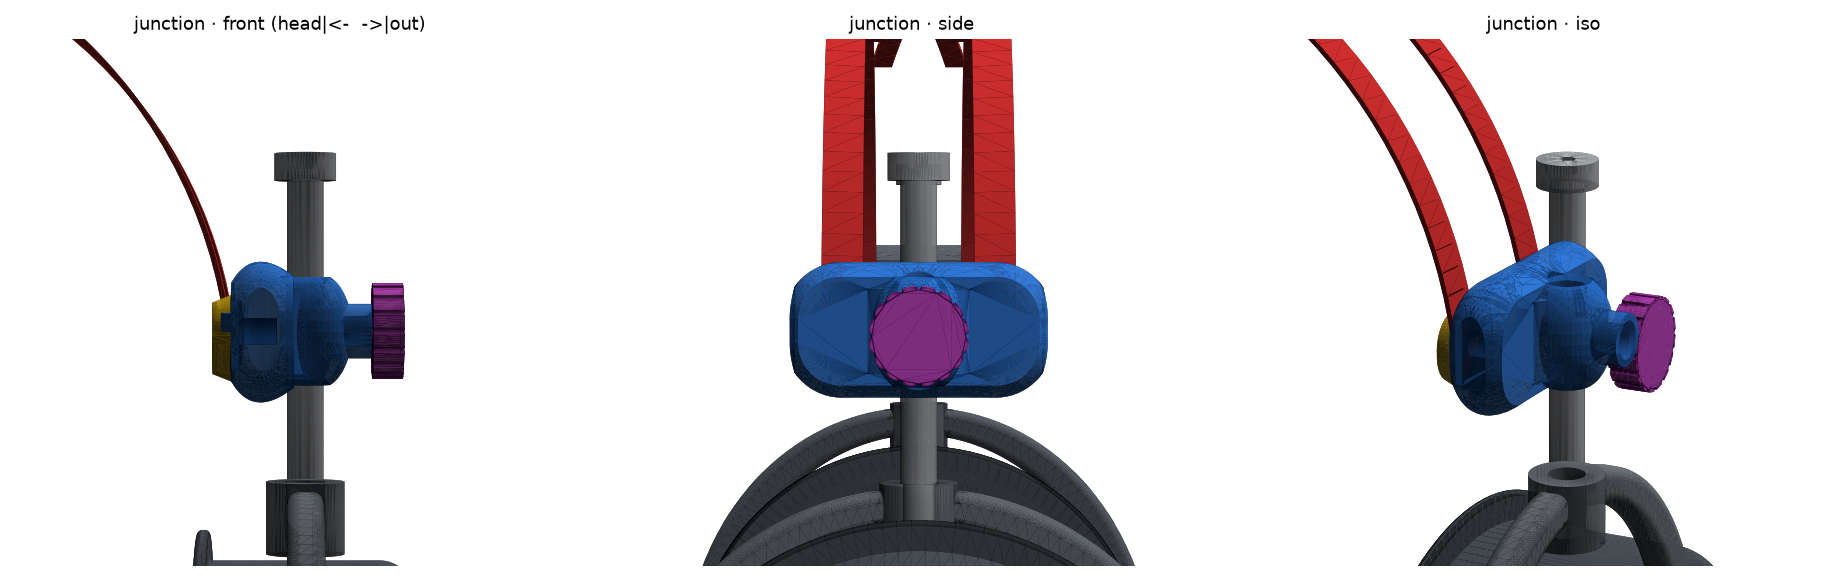
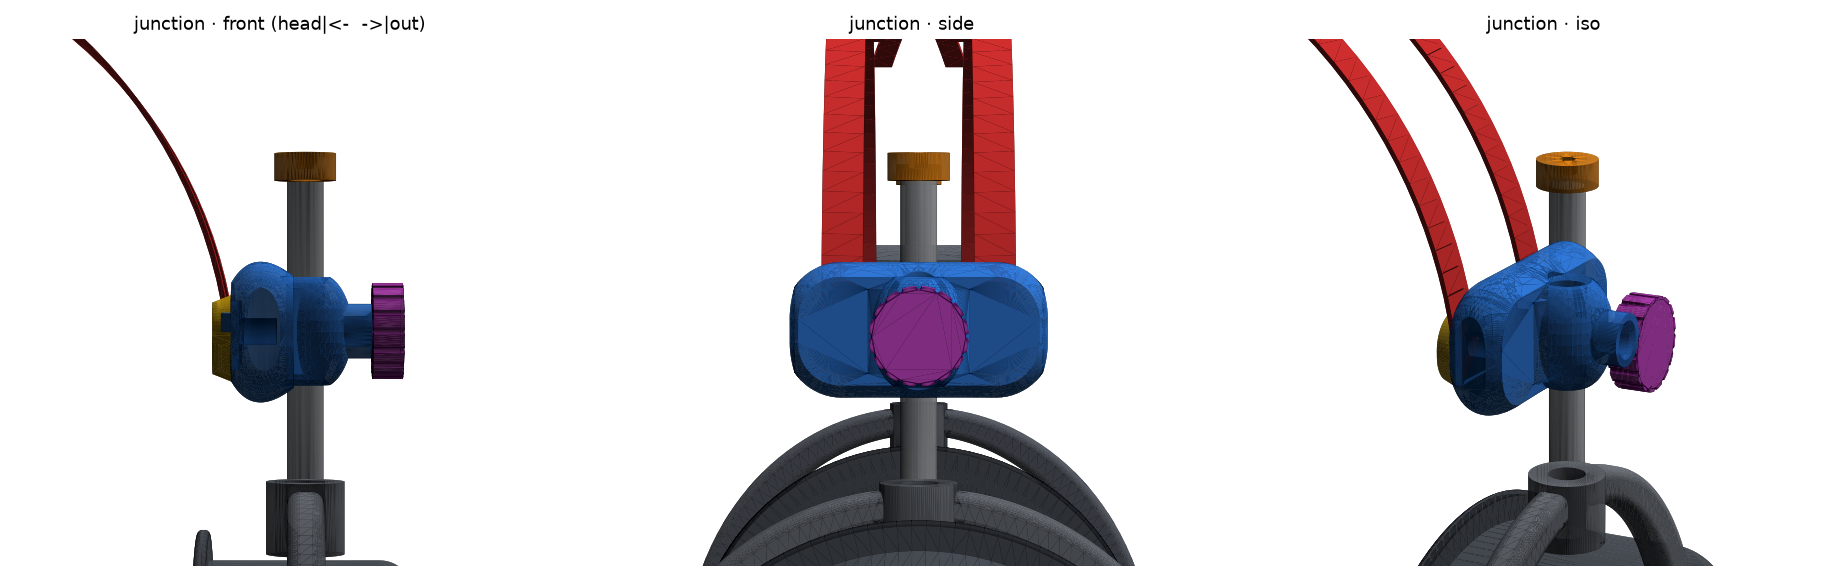
Render: highlight the shoulder-screw head (top stop) so it reads in the assembly views
The ISO 7379 head is a low socket-cap the same steel colour as the shaft, so it blended in. render_asm now splits the head out (by z) and colours it distinctly — render-aid only, the GLB/product keeps it as one steel screw.

diff --git a/render_asm.py b/render_asm.py
@@ -5,6 +5,7 @@ import matplotlib.pyplot as plt
 from mpl_toolkits.mplot3d.art3d import Poly3DCollection
 import cadquery as cq
 from assembly import make_assembly
+from params import P
 
 asm = make_assembly()
 LIGHT = np.array([0.3, 0.4, 0.85]); LIGHT = LIGHT / np.linalg.norm(LIGHT)
@@ -24,6 +25,22 @@ for child in asm.children:
     T = np.array(idx)
     rgb = np.array(child.color.toTuple()[:3]) if child.color is not None else np.array([0.6, 0.6, 0.6])
     parts.append((child.name, V[T], rgb))
+
+# The shoulder-screw HEAD (top stop) is a low socket-cap the same steel colour as the shaft, so it
+# blends in. Split it out and colour it distinctly so it READS in the assembly render. The head sits
+# at global z just below the rod top (yoke_fork_height + 4 + shoulder length).
+_HEAD_Z = P.yoke_fork_height + 4 + P.yoke_post_length - 1.0
+_HEAD_RGB = np.array([0.95, 0.55, 0.10])
+_split = []
+for nm, tri, rgb in parts:
+    if nm.startswith("yoke_rod"):
+        zc = tri[:, :, 2].mean(axis=1)
+        if (zc > _HEAD_Z).any():
+            _split.append((nm + "_head", tri[zc > _HEAD_Z], _HEAD_RGB))   # the head — orange
+        _split.append((nm, tri[zc <= _HEAD_Z], rgb))                      # the Ø6 shoulder/shaft
+    else:
+        _split.append((nm, tri, rgb))
+parts = _split
 
 allpts = np.vstack([p[1].reshape(-1, 3) for p in parts])
 
